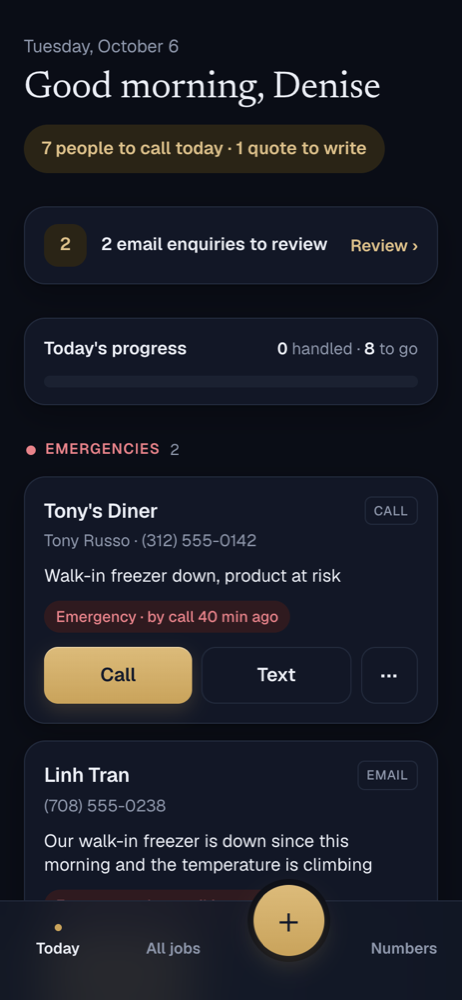
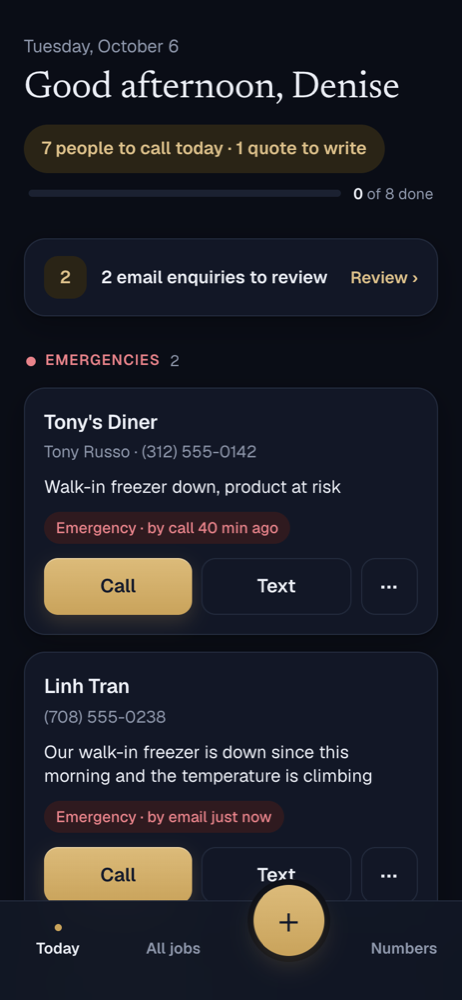
Cleaner Today: progress folded into the header, no source tags on cards; demo tools only in demo mode

diff --git a/app/(app)/page.tsx b/app/(app)/page.tsx
@@ -30,7 +30,20 @@ export default async function TodayPage({ searchParams }: PageProps<"/">) {
           <div className="text-[15px] text-ink2">{date}</div>
           <h1 className="font-serif text-[clamp(32px,4vw,44px)] leading-[1.08] tracking-[-0.01em]">{greeting}</h1>
         </div>
-        {summary && <div className="rounded-full bg-clay px-[15px] py-[9px] text-[15px] font-semibold text-clay-ink">{summary}</div>}
+        {(summary || handled > 0) && (
+          <div className="flex w-full flex-col gap-2 sm:w-auto sm:min-w-[300px]">
+            {summary && <div className="w-fit rounded-full bg-clay px-[15px] py-[9px] text-[15px] font-semibold text-clay-ink sm:self-end">{summary}</div>}
+            {/* Today's progress: fills as she logs calls, texts and quotes. */}
+            <div className="flex items-center gap-2.5 px-1">
+              <div className="h-1.5 flex-1 overflow-hidden rounded-full bg-muted" role="progressbar" aria-valuenow={progress} aria-valuemin={0} aria-valuemax={100} aria-label="Today's progress">
+                <div className="h-full rounded-full bg-gradient-to-r from-[var(--accent-top)] to-accent transition-[width] duration-500" style={{ width: `${Math.max(progress, handled ? 4 : 0)}%` }} />
+              </div>
+              <span className="flex-none text-[13px] text-ink2">
+                <span className="font-semibold text-ink tabular-nums">{handled}</span> of {handled + toGo} done
+              </span>
+            </div>
+          </div>
+        )}
       </div>
 
       {from === "contact" && (
@@ -49,21 +62,6 @@ export default async function TodayPage({ searchParams }: PageProps<"/">) {
           </span>
           <span className="text-sm font-semibold text-clay-ink">Review ›</span>
         </Link>
-      )}
-
-      {handled + toGo > 0 && (
-        <div className="card flex flex-col gap-3 px-4 py-3.5">
-          <div className="flex items-baseline justify-between gap-3">
-            <span className="text-[15px] font-semibold">Today&apos;s progress</span>
-            <span className="text-sm text-ink2">
-              <span className="font-semibold text-ink tabular-nums">{handled}</span> handled ·{" "}
-              <span className="font-semibold text-ink tabular-nums">{toGo}</span> to go
-            </span>
-          </div>
-          <div className="h-2.5 overflow-hidden rounded-full bg-muted" role="progressbar" aria-valuenow={progress} aria-valuemin={0} aria-valuemax={100} aria-label="Today's progress">
-            <div className="h-full rounded-full bg-gradient-to-r from-[var(--accent-top)] to-accent transition-[width] duration-500" style={{ width: `${Math.max(progress, handled ? 4 : 0)}%` }} />
-          </div>
-        </div>
       )}
 
       {groups.length === 0 && (

diff --git a/components/Nav.tsx b/components/Nav.tsx
@@ -7,7 +7,7 @@ import { logout } from "@/app/login/actions";
 const isActive = (path: string, href: string) =>
   href === "/" ? path === "/" : path === href || (href === "/jobs" && /^\/jobs\/\d+/.test(path)) || (href === "/customers" && path.startsWith("/customers/"));
 
-type Account = { owner: string; business: string; canLogout: boolean };
+type Account = { owner: string; business: string; canLogout: boolean; demo: boolean };
 
 export function Sidebar({ todayCount, openCount, inboxCount, account }: { todayCount: number; openCount: number; inboxCount: number; account: Account }) {
   const path = usePathname();
@@ -52,7 +52,7 @@ export function Sidebar({ todayCount, openCount, inboxCount, account }: { todayC
         </Link>
         <div className="mt-auto flex flex-col gap-1">
           <div className="px-3.5 pb-1 text-[11px] font-semibold tracking-[0.08em] text-side-ink2 uppercase">Tools</div>
-          {TOOLS.map((t) => {
+          {tools(account.demo).map((t) => {
             const on = path === t.href;
             return (
               <Link
@@ -78,6 +78,8 @@ const TOOLS = [
   { href: "/digest", label: "Morning email", Icon: MailIcon },
   { href: "/demo", label: "Simulate leads", Icon: BoltIcon },
 ];
+// "Simulate leads" is a demo tool: a real business never sees it.
+const tools = (demo: boolean) => TOOLS.filter((t) => demo || t.href !== "/demo");
 
 function AccountRow({ account }: { account: Account }) {
   return (
@@ -112,7 +114,7 @@ export function MobileFooter({ account, inboxCount }: { account: Account; inboxC
     <div className="mt-12 flex flex-col gap-2.5 lg:hidden">
       <div className="px-1 text-[11.5px] font-semibold tracking-[0.06em] text-ink2 uppercase">More</div>
       <div className="card divide-y divide-line overflow-hidden">
-        {[{ href: "/inbox", label: "Inbox", Icon: InboxIcon, count: inboxCount }, { href: "/customers", label: "Customers", Icon: PeopleIcon, count: 0 }, ...TOOLS.map((t) => ({ ...t, count: 0 }))].map((t) => (
+        {[{ href: "/inbox", label: "Inbox", Icon: InboxIcon, count: inboxCount }, { href: "/customers", label: "Customers", Icon: PeopleIcon, count: 0 }, ...tools(account.demo).map((t) => ({ ...t, count: 0 }))].map((t) => (
           <Link key={t.href} href={t.href} className={row}>
             <span className="text-ink2"><t.Icon /></span>
             <span className="flex-1">{t.label}</span>

diff --git a/app/actions.ts b/app/actions.ts
@@ -6,7 +6,7 @@ import { z } from "zod";
 import { getDb } from "@/db";
 import { jobs } from "@/db/schema";
 import { EQUIPMENT, LOG_KINDS, SNOOZE_OPTIONS, SOURCES, STAGES, URGENCY, type LogKind, type SnoozeOption, type Stage, type Urgency } from "@/lib/constants";
-import { config } from "@/lib/config";
+import { config, DEMO_MODE } from "@/lib/config";
 import { attachMessage, createJob } from "@/lib/intake";
 import { addNote, logContact, moveStage, snooze, snoozeTarget, updateJob, wake } from "@/lib/jobs";
 import { DEMO_SAMPLES, SAMPLE_EMAILS, type DemoKind } from "@/lib/demo-samples";
@@ -119,6 +119,7 @@ export async function dismissInboxAction(id: number) {
 // Demo: run four realistic emails through the same pipeline a real Gmail message goes through.
 export async function loadSampleEmailsAction() {
   await requireAuth();
+  if (!DEMO_MODE) throw new Error("Demo tools are turned off");
   const db = await getDb();
   const stamp = Date.now();
   const outcomes = [];
@@ -212,6 +213,7 @@ export async function saveJobAction(input: z.input<typeof JobInputSchema>, raw: 
 // Called in-process (not over HTTP), so the inbound token never leaves the server.
 export async function simulateAction(kind: DemoKind, index: number) {
   await requireAuth();
+  if (!DEMO_MODE) throw new Error("Demo tools are turned off");
   const samples = DEMO_SAMPLES[kind];
   const payload = samples[index % samples.length];
   const token = process.env.INBOUND_TOKEN ? `?token=${encodeURIComponent(process.env.INBOUND_TOKEN)}` : "";
@@ -227,6 +229,7 @@ export async function simulateAction(kind: DemoKind, index: number) {
 
 export async function resetDemoAction() {
   await requireAuth();
+  if (!DEMO_MODE) throw new Error("Demo tools are turned off");
   await seed(await getDb());
   refresh();
 }

diff --git a/app/(app)/inbox/page.tsx b/app/(app)/inbox/page.tsx
@@ -1,7 +1,7 @@
 import Link from "next/link";
 import { getDb } from "@/db";
 import { CheckNowButton, DisconnectButton, DismissButton, SampleEmailsButton } from "@/components/InboxControls";
-import { config } from "@/lib/config";
+import { config, DEMO_MODE } from "@/lib/config";
 import type { ExtractResult } from "@/lib/extract";
 import { TONE_CHIP, URGENCY_LABEL } from "@/lib/format";
 import { gmailConfigured } from "@/lib/gmail";
@@ -89,7 +89,7 @@ export default async function InboxPage({ searchParams }: PageProps<"/inbox">) {
             <p className="max-w-[380px] text-[15px] text-ink2">
               New enquiries land here automatically. Emergencies skip the queue and go straight onto Today.
             </p>
-            <SampleEmailsButton />
+            {DEMO_MODE && <SampleEmailsButton />}
           </div>
         )}
 
@@ -125,7 +125,7 @@ export default async function InboxPage({ searchParams }: PageProps<"/inbox">) {
             </div>
           );
         })}
-        {pending.length > 0 && !account && (
+        {pending.length > 0 && !account && DEMO_MODE && (
           <div className="flex justify-center">
             <SampleEmailsButton />
           </div>

diff --git a/components/TodayCard.tsx b/components/TodayCard.tsx
@@ -3,7 +3,7 @@
 import { useRouter } from "next/navigation";
 import { useState, useTransition } from "react";
 import { moveStageAction } from "@/app/actions";
-import { SOURCE_LABEL, TONE_CHIP, type Tone } from "@/lib/format";
+import { TONE_CHIP, type Tone } from "@/lib/format";
 import { smsHref } from "@/lib/messages";
 import type { CardJob } from "@/lib/view";
 import { LogSheet } from "./LogSheet";
@@ -36,9 +36,6 @@ export function TodayCard({ job, reason, tone, suggestLost, attempts }: Props) {
           <div className="flex min-w-0 flex-col gap-0.5">
             <div className="text-[17px] font-semibold tracking-[-0.01em]">{job.name}</div>
             <div className="text-sm text-ink2">{[job.contact, job.phoneDisplay].filter(Boolean).join(" · ")}</div>
-          </div>
-          <div className="flex-none rounded-md border border-line px-[7px] py-[3px] text-[11px] font-medium tracking-[0.04em] text-ink2 uppercase">
-            {SOURCE_LABEL[job.source]}
           </div>
         </div>
         <div className="text-[15px] leading-snug text-pretty">{job.problem}</div>

diff --git a/app/(app)/layout.tsx b/app/(app)/layout.tsx
@@ -1,7 +1,7 @@
 import { BottomBar, MobileFooter, Sidebar } from "@/components/Nav";
 import { getDb } from "@/db";
 import { MailSync } from "@/components/InboxControls";
-import { BUSINESS_NAME, OWNER_NAME } from "@/lib/config";
+import { BUSINESS_NAME, DEMO_MODE, OWNER_NAME } from "@/lib/config";
 import { getAccount, pendingCount } from "@/lib/mailbox";
 import { getOpenJobs, getToday } from "@/lib/queries";
 
@@ -9,7 +9,7 @@ import { getOpenJobs, getToday } from "@/lib/queries";
 export default async function AppLayout({ children }: LayoutProps<"/">) {
   const db = await getDb();
   const [today, open, inbox, gmail] = await Promise.all([getToday(), getOpenJobs(), pendingCount(db), getAccount(db)]);
-  const account = { owner: OWNER_NAME, business: BUSINESS_NAME, canLogout: Boolean(process.env.APP_PASSCODE) };
+  const account = { owner: OWNER_NAME, business: BUSINESS_NAME, canLogout: Boolean(process.env.APP_PASSCODE), demo: DEMO_MODE };
   return (
     <>
       <div className="flex min-h-dvh">

diff --git a/lib/config.ts b/lib/config.ts
@@ -8,5 +8,8 @@ export const config = {
 
 export type TodayConfig = typeof config;
 
+// Demo tools (Simulate leads, Reset, sample emails) appear only on the public demo and in local development.
+export const DEMO_MODE = process.env.NODE_ENV !== "production" || process.env.DEMO_MODE === "true" || process.env.SHOW_PASSCODE === "true";
+
 export const OWNER_NAME = process.env.OWNER_NAME || "Denise";
 export const BUSINESS_NAME = process.env.BUSINESS_NAME || "Denise's Refrigeration";

diff --git a/app/(app)/demo/page.tsx b/app/(app)/demo/page.tsx
@@ -1,6 +1,9 @@
+import { notFound } from "next/navigation";
 import { DemoPanel } from "@/components/DemoPanel";
+import { DEMO_MODE } from "@/lib/config";
 
 export default function DemoPage() {
+  if (!DEMO_MODE) notFound();
   return (
     <div className="flex max-w-[760px] flex-col gap-6">
       <div className="flex flex-col gap-2">

diff --git a/README.md b/README.md
@@ -4,7 +4,7 @@
 
 Job requests arrive by phone, text, email, website form and a paper notebook. KeepWarm puts them all in one list, tracks where each job stands, and shows the owner one thing each morning: **who to call today**. A job stays on that list until it is done or lost, so no request goes cold because it was forgotten. Connect Gmail and enquiries from the owner's inbox arrive on their own, already filled in.
 
-**Live demo:** [keepwarm.vercel.app](https://keepwarm.vercel.app) (the passcode is filled in on the sign-in page). Use **Simulate leads** in the sidebar to send in a web form, email, customer text or missed call, or **Inbox → Load sample emails** to try the email review flow.
+**Live demo:** [keepwarm.vercel.app](https://keepwarm.vercel.app) (the passcode is filled in on the sign-in page). Use **Simulate leads** in the sidebar (demo mode only) to send in a web form, email, customer text or missed call, or **Inbox → Load sample emails** to try the email review flow.
 
 ![Today screen](docs/screenshots/today.png)
 
@@ -38,7 +38,7 @@ For the reasoning behind the product (the problem, key decisions, assumptions, r
 ## Features
 
 - **Today.** One ranked list of who to call. Every card says why it is there ("No reply in 3 days", "Emergency · by call 40 min ago") and has one-tap **Call** and **Text** buttons that open the phone's own apps.
-- **Today's progress.** A progress bar on Today ("3 handled · 6 to go") fills as calls, texts and quotes are logged, so clearing the list each morning feels finished.
+- **Today's progress.** A slim bar under the day's summary ("3 of 12 done") fills as calls, texts and quotes are logged, so clearing the list each morning feels finished.
 - **Follow-up rules.** Any open job with no contact for 2 days comes back on its own. Quotes with no answer after 2 days are sorted by dollar amount. After 3 unanswered attempts the card suggests **Mark as lost?**, but nothing is ever closed automatically.
 - **Snooze.** "Call me next week" leads can be set aside until tomorrow, Monday, a week out or any date. They leave Today, sit in a Snoozed list, and come back at 9am on the day, or immediately if the customer gets in touch first.
 - **Simple stages.** New → Waiting on quote → Waiting on their yes → Said yes → Scheduled → Done (or Lost). One tap to move a job, with a full activity history.
@@ -134,7 +134,8 @@ All optional; see [`.env.example`](.env.example).
 | `ANTHROPIC_API_KEY`, `ANTHROPIC_MODEL` | Claude extraction (default `claude-haiku-4-5`) instead of rules |
 | `RESEND_API_KEY`, `ALERT_EMAIL_TO`, `ALERT_EMAIL_FROM`, `APP_URL` | Send emergency alerts and the morning email (otherwise logged to the console) |
 | `APP_PASSCODE` | Require a shared passcode (httpOnly cookie, 90 days) |
-| `SHOW_PASSCODE` | `true` pre-fills the passcode on the sign-in page (public demos only) |
+| `SHOW_PASSCODE` | `true` pre-fills the passcode on the sign-in page and turns on the demo tools (public demos only) |
+| `DEMO_MODE` | `true` shows the demo tools (Simulate leads, Reset, sample emails) without pre-filling the passcode. They're always on in local development and off for a real customer |
 | `INBOUND_TOKEN` | Required `?token=` on the email, SMS and call webhooks |
 | `CRON_SECRET` | Protects `/api/cron/digest` (sent automatically by Vercel Cron) |
 | `BUSINESS_TZ`, `OWNER_NAME`, `BUSINESS_NAME` | Localize to the business |
